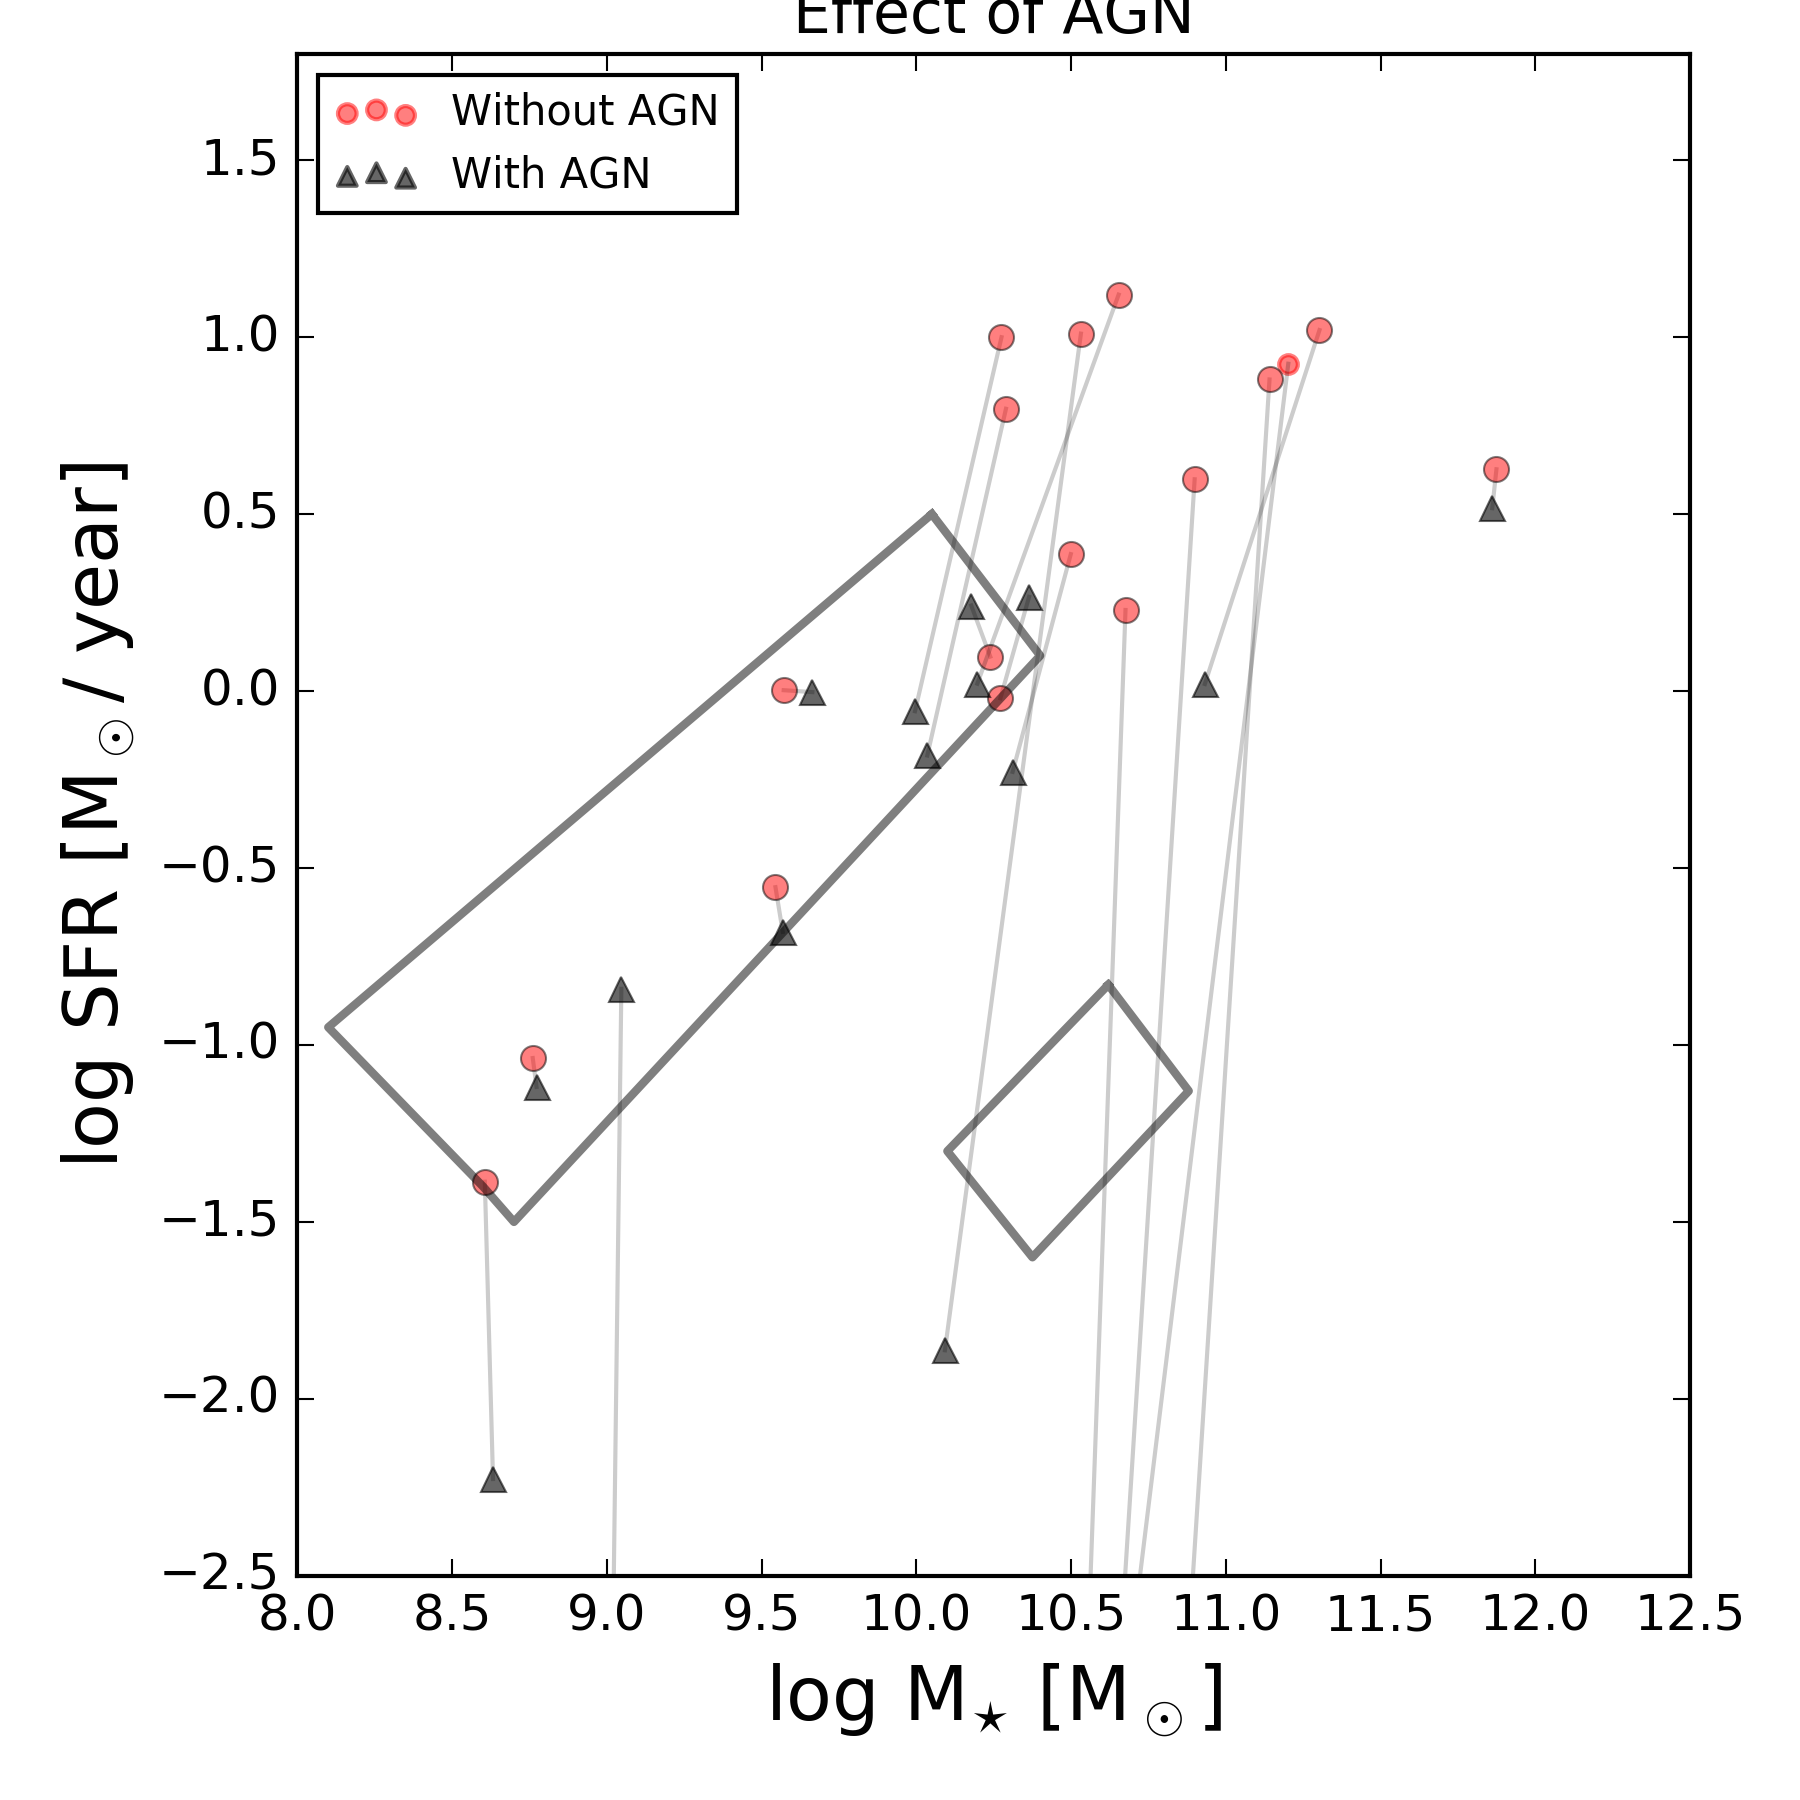
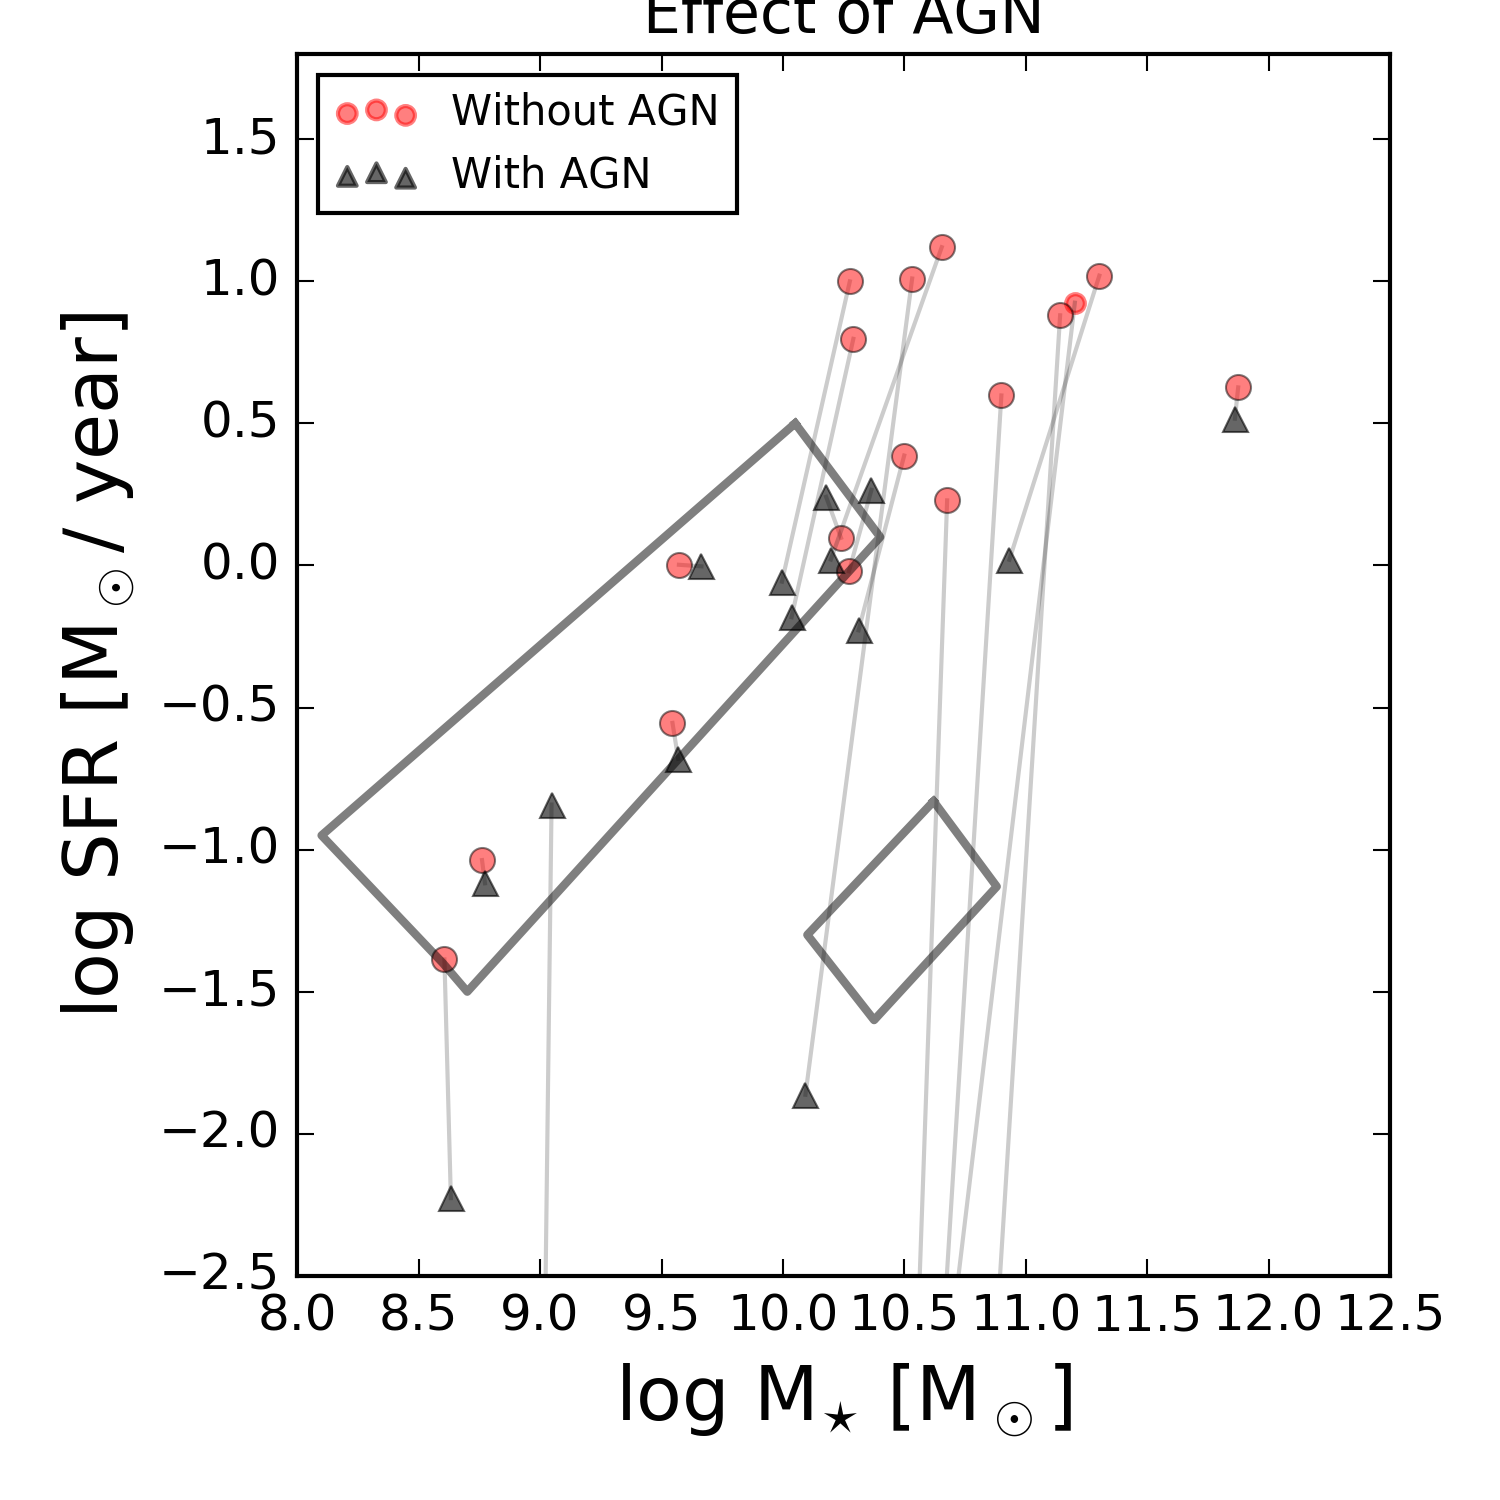
fix

diff --git a/2_mssfrWandWobh.py b/2_mssfrWandWobh.py
@@ -29,7 +29,7 @@ sfrEll = []
 mstarEll = []
 galsTot = 0
 labeled = False
-fig = plt.figure(figsize=(6,6))
+fig = plt.figure(figsize=(5,5))
 for g in galDictBH.keys():
     try:
         propDict = galDict[g]
